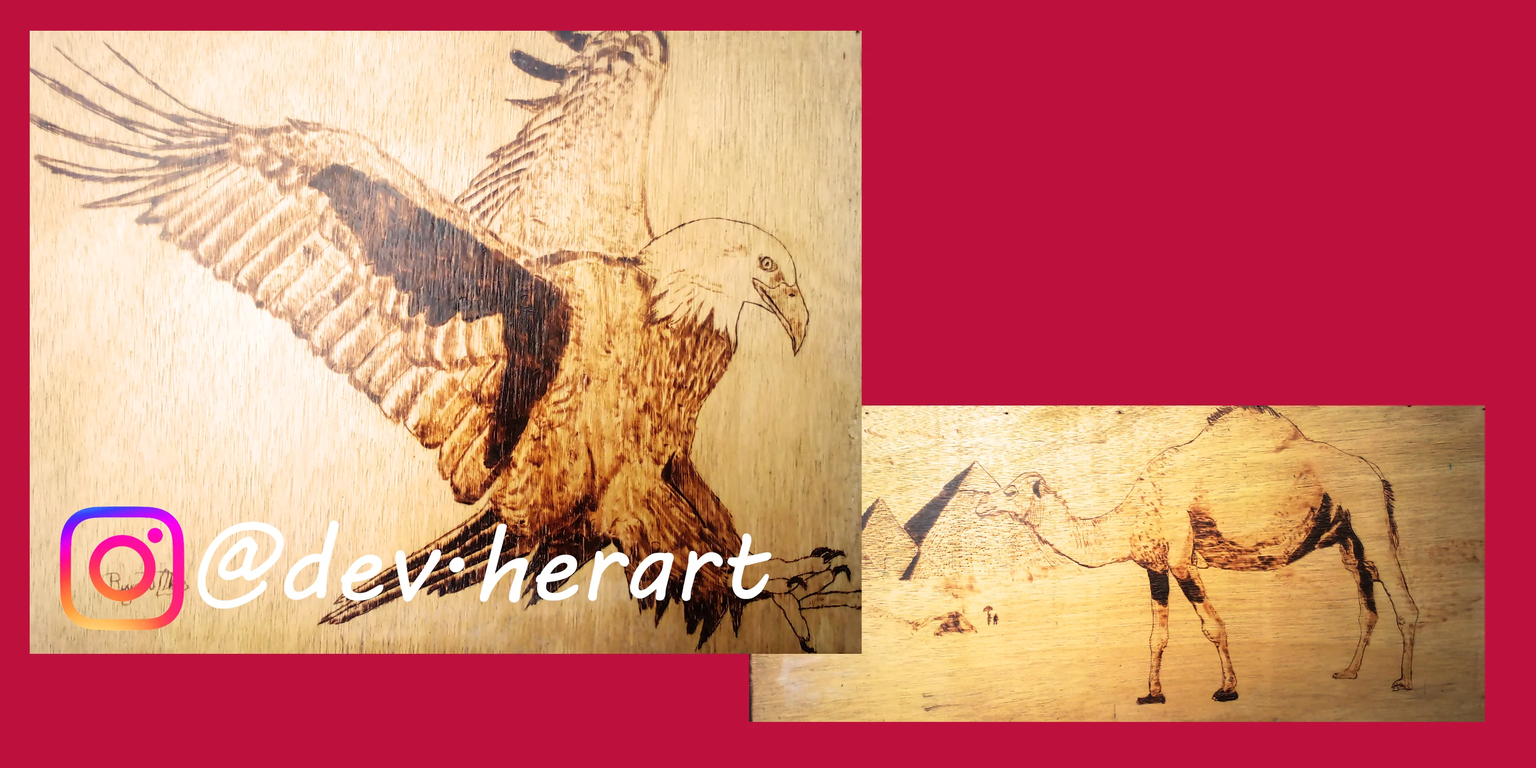
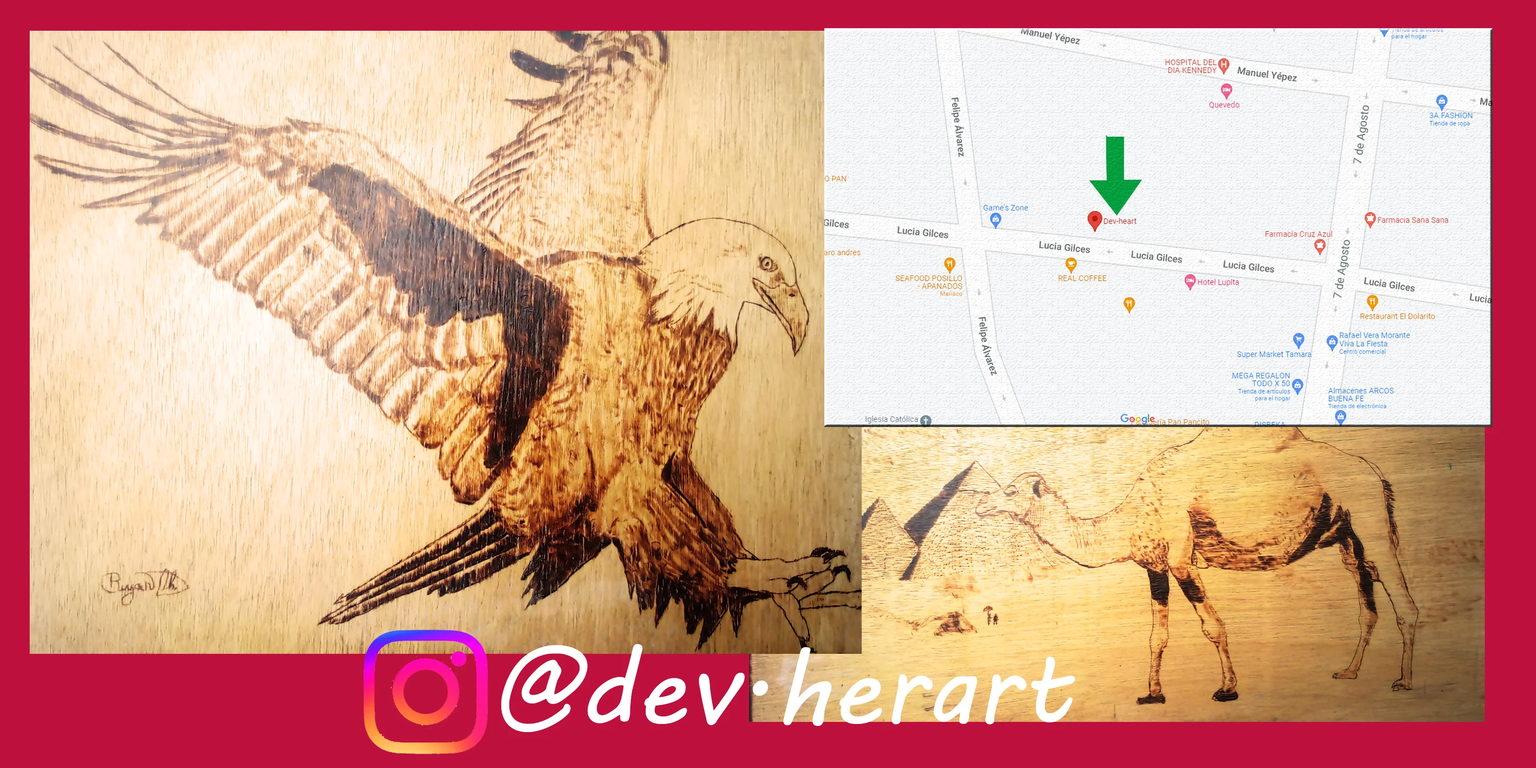
n

Changed region(s): [[0.527, 0.0307, 0.992, 0.5827], [0.031, 0.644, 0.713, 0.9813]]

diff --git a/Direccion.html b/Direccion.html
@@ -1,0 +1,85 @@
+<!DOCTYPE html>
+<html lang="es" dir="ltr">
+  <head>
+<!-- Required meta tags -->
+  <meta charset="utf-8">
+  <meta name="viewport" content="width=device-width, initial-scale=1, shrink-to-fit=no">
+  <!--Meta Datos descriptivos-->
+  <title>Devher-Art - Arte en madera - Ubicación</title>
+  <meta name="title" content="Devher-Art - Arte en madera - Ubicación">
+  <meta name="description" content="Grabados en Madera a mano con diseños exclusivos y personalizados">
+  <meta property="og:image" content="img/portada1.webp">
+  <meta property="og:description" content="Grabados en Madera a mano con diseños exclusivos y personalizados">
+  <meta property="og:title" content="Devher-Art - Arte en madera - Ubicación">
+  <link rel="shotcut icon" type="image/png" href="img/devher-shop.png">
+  <!-- Bootstrap CSS -->
+  <link rel="stylesheet" href="css/bootstrap.min.css">
+  <link rel="stylesheet" href="css/style.css">
+  <!-- Global site tag (gtag.js) - Google Analytics -->
+  <script async src="https://www.googletagmanager.com/gtag/js?id=UA-141987034-4">
+  </script>
+  <script>
+    window.dataLayer = window.dataLayer || [];
+    function gtag(){dataLayer.push(arguments);}
+    gtag('js', new Date());
+
+    gtag('config', 'UA-141987034-4');
+  </script>
+  </head>
+  <body>
+      <header>
+<!--BARRA DE NAVEGACIÓN-->
+        <nav class="navbar navbar-expand-lg navbar-dark bg-dark">
+            <a class="navbar-brand" href="./"><img src="img/devher-shop.png" width="30" height="30" alt=""> <span style="color: #FF637D;">DEVHER</span><span style="color: #66d1d7;">ART</span></a>
+            <button class="navbar-toggler py-0" type="button" data-toggle="collapse" data-target="#navbarNavDropdown" aria-controls="navbarNavDropdown" aria-expanded="false" aria-label="Toggle navigation">
+              <span class="h1">&#8801;</span>
+            </button>
+            <div class="collapse navbar-collapse" id="navbarNavDropdown">
+                <ul class="navbar-nav">
+                    <li class="nav-item active">
+                      <a class="nav-link" href="./">Inicio <span class="sr-only">(current)</span></a>
+                    </li>
+                      <li class="nav-item">
+                        <a class="nav-link" href="#">Ubicación</a>
+                    </li>
+                    <li class="nav-item dropdown">
+                      <a class="nav-link dropdown-toggle" href="#" id="navbarDropdownMenuLink" role="button" data-toggle="dropdown" aria-haspopup="true" aria-expanded="false">
+                        Más productos
+                      </a>
+                      <div class="dropdown-menu bg-dark" aria-labelledby="navbarDropdownMenuLink">
+                          <a class="dropdown-item text-light" href="Grabados">Diseños Exclusivos </a>
+                          <div class="dropdown-divider"></div>
+                          <p class="text-center text-wrap text-warning">Soporte de Celular</p>
+                          <a class="dropdown-item text-light" href="Soporte-pequeño">Pequeño</a>
+                          <a class="dropdown-item text-light" href="Soporte-mediano">Mediano</a>
+                          <div class="dropdown-divider"></div>
+                          <p class="text-center text-wrap text-warning">Organizador de escritorio</p>
+                          <a class="dropdown-item text-light" href="Organizador">Mediano</a>
+                      </div>
+                    </li>
+                </ul>
+            </div>
+          </nav>
+      </header>
+      <div class="card">
+        <iframe src="https://www.google.com/maps/embed?pb=!1m18!1m12!1m3!1d997.332824084762!2d-79.49116597081829!3d-0.8952424590179294!2m3!1f0!2f0!3f0!3m2!1i1024!2i768!4f13.1!3m3!1m2!1s0x902b4906da0053a9%3A0x1ed89d5f3df75fd4!2sDev-heart!5e0!3m2!1ses!2sec!4v1635273209321!5m2!1ses!2sec" width="70%" height="600px" class="m-auto" style="border:0;" allowfullscreen="" loading="lazy"></iframe>
+      </div>
+
+  <!--Pie de Página-->
+  <div class="card">
+        <div class="pt-4 text-center bg-dark text-white ">
+          <p><img src="img/devher-shop.png" width="30" height="30" alt=""> DEVHERART</P>
+          <a href="Direccion" class="text-white">Acerca de</a><span> &nbsp;&nbsp; |</span><span> &nbsp;&nbsp;</span><a href="https://wa.me/593979309140"class="text-white">Contáctenos</a>
+
+          <!-- <span> &nbsp;&nbsp; |</span>
+          <span> &nbsp;&nbsp;</span><a href="#"class="text-white">Productos</a> -->
+          <hr>
+          <p>&copy2021 Devherart derechos reservados</p>
+        <br>
+      </div>
+  </div>
+
+    <script type="text/javascript" src="js/jquery-3.4.1.slim.min.js"></script>
+    <script type="text/javascript" src="js/bootstrap.min.js"></script>
+  </body>
+</html>

diff --git a/index.html b/index.html
@@ -40,7 +40,7 @@
                       <a class="nav-link" href="./">Inicio <span class="sr-only">(current)</span></a>
                     </li>
                       <li class="nav-item">
-                        <a class="nav-link" href="https://wa.me/593979309140">Contáctese</a>
+                        <a class="nav-link" href="Direccion">Ubicación</a>
                     </li>
                     <li class="nav-item dropdown">
                       <a class="nav-link dropdown-toggle" href="#" id="navbarDropdownMenuLink" role="button" data-toggle="dropdown" aria-haspopup="true" aria-expanded="false">
@@ -54,7 +54,7 @@
                           <a class="dropdown-item text-light" href="Soporte-mediano">Mediano</a>
                           <div class="dropdown-divider"></div>
                           <p class="text-center text-wrap text-warning">Organizador de escritorio</p>
-                          <a class="dropdown-item text-light" href="#">Mediano</a>
+                          <a class="dropdown-item text-light" href="Organizador">Mediano</a>
                       </div>
                     </li>
                 </ul>
@@ -73,6 +73,9 @@
           </div>
           <div class="carousel-item">
             <img src="img/portada3.webp" class="d-block w-100" alt="...">
+          </div>
+          <div class="carousel-item">
+            <img src="img/direccion.webp" class="d-block w-100" alt="...">
           </div>
         </div>
         <a class="carousel-control-prev" href="#carouselExampleFade" role="button" data-slide="prev">
@@ -247,7 +250,7 @@
   <div class="card">
         <div class="pt-4 text-center bg-dark text-white ">
           <p><img src="img/devher-shop.png" width="30" height="30" alt=""> DEVHERART</P>
-          <a href="#sobre nosotros" class="text-white">Acerca de</a><span> &nbsp;&nbsp; |</span><span> &nbsp;&nbsp;</span><a href="https://wa.me/593979309140"class="text-white">Contáctenos</a>
+          <a href="Direccion" class="text-white">Acerca de</a><span> &nbsp;&nbsp; |</span><span> &nbsp;&nbsp;</span><a href="https://wa.me/593979309140"class="text-white">Contáctenos</a>
 
           <!-- <span> &nbsp;&nbsp; |</span>
           <span> &nbsp;&nbsp;</span><a href="#"class="text-white">Productos</a> -->

diff --git a/Soporte-mediano.html b/Soporte-mediano.html
@@ -39,7 +39,7 @@
                       <a class="nav-link" href="./">Inicio <span class="sr-only">(current)</span></a>
                     </li>
                       <li class="nav-item">
-                        <a class="nav-link" href="https://wa.me/593979309140">Contáctese</a>
+                        <a class="nav-link" href="Direccion">Ubicaión</a>
                     </li>
                     <li class="nav-item dropdown">
                       <a class="nav-link dropdown-toggle" href="#" id="navbarDropdownMenuLink" role="button" data-toggle="dropdown" aria-haspopup="true" aria-expanded="false">
@@ -53,7 +53,7 @@
                           <a class="dropdown-item text-light" href="#">Mediano</a>
                           <div class="dropdown-divider"></div>
                           <p class="text-center text-wrap text-warning">Organizador de escritorio</p>
-                          <a class="dropdown-item text-light" href="#">Mediano</a>
+                          <a class="dropdown-item text-light" href="Organizador">Mediano</a>
                       </div>
                     </li>
                 </ul>
@@ -327,7 +327,7 @@
     <div class="card">
           <div class="pt-4 text-center bg-dark text-white ">
             <p><img src="img/devher-shop.png" width="30" height="30" alt=""> DEVHERART</P>
-            <a href="#sobre nosotros" class="text-white">Acerca de</a><span> &nbsp;&nbsp; |</span><span> &nbsp;&nbsp;</span><a href="https://wa.me/593979309140"class="text-white">Contáctenos</a>
+            <a href="Direccion" class="text-white">Acerca de</a><span> &nbsp;&nbsp; |</span><span> &nbsp;&nbsp;</span><a href="https://wa.me/593979309140"class="text-white">Contáctenos</a>
 
             <!-- <span> &nbsp;&nbsp; |</span>
             <span> &nbsp;&nbsp;</span><a href="#"class="text-white">Productos</a> -->

diff --git a/Grabados.html b/Grabados.html
@@ -39,7 +39,7 @@
                       <a class="nav-link" href="./">Inicio <span class="sr-only">(current)</span></a>
                     </li>
                       <li class="nav-item">
-                        <a class="nav-link" href="https://wa.me/593979309140">Contáctese</a>
+                        <a class="nav-link" href="Direccion">Ubicación</a>
                     </li>
                     <li class="nav-item dropdown">
                       <a class="nav-link dropdown-toggle" href="#" id="navbarDropdownMenuLink" role="button" data-toggle="dropdown" aria-haspopup="true" aria-expanded="false">
@@ -220,7 +220,7 @@
     <div class="card">
           <div class="pt-4 text-center bg-dark text-white ">
             <p><img src="img/devher-shop.png" width="30" height="30" alt=""> DEVHERART</P>
-            <a href="#sobre nosotros" class="text-white">Acerca de</a><span> &nbsp;&nbsp; |</span><span> &nbsp;&nbsp;</span><a href="https://wa.me/593979309140"class="text-white">Contáctenos</a>
+            <a href="Direccion" class="text-white">Acerca de</a><span> &nbsp;&nbsp; |</span><span> &nbsp;&nbsp;</span><a href="https://wa.me/593979309140"class="text-white">Contáctenos</a>
 
             <!-- <span> &nbsp;&nbsp; |</span>
             <span> &nbsp;&nbsp;</span><a href="#"class="text-white">Productos</a> -->

diff --git a/Organizador.html b/Organizador.html
@@ -39,7 +39,7 @@
                       <a class="nav-link" href="./">Inicio <span class="sr-only">(current)</span></a>
                     </li>
                       <li class="nav-item">
-                        <a class="nav-link" href="https://wa.me/593979309140">Contáctese</a>
+                        <a class="nav-link" href="Direccion">Ubicación</a>
                     </li>
                     <li class="nav-item dropdown">
                       <a class="nav-link dropdown-toggle" href="#" id="navbarDropdownMenuLink" role="button" data-toggle="dropdown" aria-haspopup="true" aria-expanded="false">
@@ -129,7 +129,7 @@
     <div class="card">
           <div class="pt-4 text-center bg-dark text-white ">
             <p><img src="img/devher-shop.png" width="30" height="30" alt=""> DEVHERART</P>
-            <a href="#sobre nosotros" class="text-white">Acerca de</a><span> &nbsp;&nbsp; |</span><span> &nbsp;&nbsp;</span><a href="https://wa.me/593979309140"class="text-white">Contáctenos</a>
+            <a href="Direccion" class="text-white">Acerca de</a><span> &nbsp;&nbsp; |</span><span> &nbsp;&nbsp;</span><a href="https://wa.me/593979309140"class="text-white">Contáctenos</a>
 
             <!-- <span> &nbsp;&nbsp; |</span>
             <span> &nbsp;&nbsp;</span><a href="#"class="text-white">Productos</a> -->

diff --git a/Soporte-pequeño.html b/Soporte-pequeño.html
@@ -39,7 +39,7 @@
                       <a class="nav-link" href="./">Inicio <span class="sr-only">(current)</span></a>
                     </li>
                       <li class="nav-item">
-                        <a class="nav-link" href="https://wa.me/593979309140">Contáctese</a>
+                        <a class="nav-link" href="Direccion">Ubicación</a>
                     </li>
                     <li class="nav-item dropdown">
                       <a class="nav-link dropdown-toggle" href="#" id="navbarDropdownMenuLink" role="button" data-toggle="dropdown" aria-haspopup="true" aria-expanded="false">
@@ -328,7 +328,7 @@
     <div class="card">
           <div class="pt-4 text-center bg-dark text-white ">
             <p><img src="img/devher-shop.png" width="30" height="30" alt=""> DEVHERART</P>
-            <a href="#sobre nosotros" class="text-white">Acerca de</a><span> &nbsp;&nbsp; |</span><span> &nbsp;&nbsp;</span><a href="https://wa.me/593979309140"class="text-white">Contáctenos</a>
+            <a href="Direccion" class="text-white">Acerca de</a><span> &nbsp;&nbsp; |</span><span> &nbsp;&nbsp;</span><a href="https://wa.me/593979309140"class="text-white">Contáctenos</a>
 
             <!-- <span> &nbsp;&nbsp; |</span>
             <span> &nbsp;&nbsp;</span><a href="#"class="text-white">Productos</a> -->
